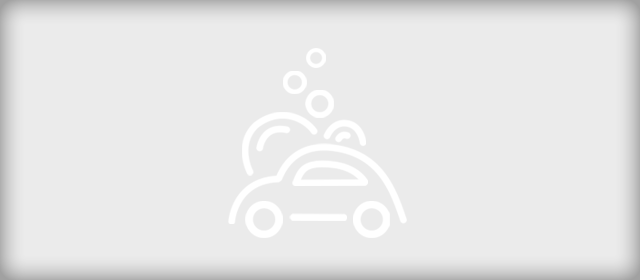
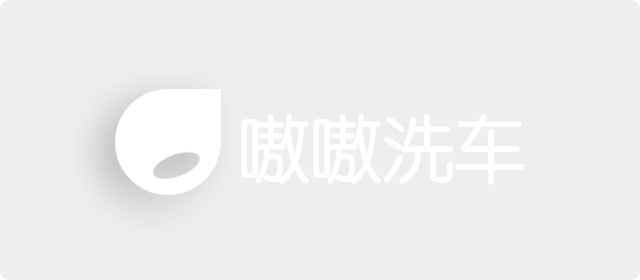
logo替换

Changed region(s): [[0.0, 0.0, 1.0, 1.0], [0.1562, 0.4286, 0.3125, 0.6857]]

diff --git a/www/templates/mobile/cash/cash_index.html b/www/templates/mobile/cash/cash_index.html
@@ -5,13 +5,13 @@
 {% block css %}
 <style type="text/css">
 .list-group-item:first-child{
-	border-top-left-radius: 4px;
-	border-top-right-radius: 4px;
+    border-top-left-radius: 4px;
+    border-top-right-radius: 4px;
 }
 
 .list-group-item:last-child{
-	border-bottom-right-radius: 4px;
-	border-bottom-left-radius: 4px;
+    border-bottom-right-radius: 4px;
+    border-bottom-left-radius: 4px;
 }
 </style>
 {% endblock %}
@@ -20,62 +20,64 @@
 
 {% block container %}
 <div class="row pt-0 pb-50">
-	<div class="col-xs-12 pt-15 pl-15 pr-15">
-		<div class="row pt-30 pl-0 pr-0 bgc-ffffff border-1 bdc-d0d0d0 bdr-4">
-			<div class="col-xs-offset-1 col-xs-10 co3 f14 pl-0 pr-0">账户余额(元)</div>
-			<div class="col-xs-offset-1 col-xs-10 f70 co8 pl-0 pr-0">{{user_cash.balance}}</div>
-		</div>
-	</div>
+    <div class="col-xs-12 pt-15 pl-15 pr-15">
+        <div class="row pt-30 pl-0 pr-0 bgc-ffffff border-1 bdc-d0d0d0 bdr-4">
+            <div class="col-xs-offset-1 col-xs-10 co3 f14 pl-0 pr-0">账户余额(元)</div>
+            <div class="col-xs-offset-1 col-xs-10 f70 co8 pl-0 pr-0">{{user_cash.balance}}</div>
+        </div>
+    </div>
 
-	<ul class="list-group col-xs-12 pr-15 pl-15 mt-10 mb-10">
-		<a class="list-group-item bdc-d0d0d0 pr" href="/cash/recharge">
-			<span class="fa fa-rmb pl-3 pr-3 f16 pa pt-3"></span>
-			<div class="pl-25">
-				<span>立即充值</span>
-				<span class="pull-right f20 fa fa-angle-right co3"></span>
-			</div>
-		</a>
-		<a class="list-group-item bdc-d0d0d0 pr" href="/cash/user_cash_record">
-			<span class="fa fa-list-alt pr-3 f16 pa pt-3"></span>
-			<div class="pl-25">
-				<span>消费记录</span>
-				<span class="pull-right f20 fa fa-angle-right co3"></span>
-			</div>
-		</a>
-	</ul>
-	<ul class="list-group col-xs-12 pr-15 pl-15 mt-0 mb-10">
-		<a class="list-group-item bdc-d0d0d0 pr" href="/car_wash/setting">
-			<span class="fa fa-gear pr-3 f16 pa pt-3"></span>
-			<div class="pl-25">
-				<span>账户设置</span>
-				<span class="pull-right f20 fa fa-angle-right co3"></span>
-			</div>
-		</a>
-	</ul>
-	<ul class="list-group col-xs-12 pr-15 pl-15 mt-0 mb-10">
-		<a class="list-group-item bdc-d0d0d0 pr" href="/car_wash/bind_mobile">
-			<span class="fa fa-mobile pl-3 pr-3 f20 pa pt-0"></span>
-			<div class="pl-25">
-				<span>绑定手机</span>
-				<span class="pull-right f20 fa fa-angle-right co3"></span>
-			</div>
-		</a>
-	</ul>
-	<ul class="list-group col-xs-12 pr-15 pl-15 mt-0 mb-10">
-		<a class="list-group-item bdc-d0d0d0 pr" href="/s/about">
-			<span class="fa fa-taxi pr-3 f16 pa pt-3"></span>
-			<div class="pl-25">
-				<span>关于我们</span>
-				<span class="pull-right f20 fa fa-angle-right co3"></span>
-			</div>
-		</a>
-		<a class="list-group-item bdc-d0d0d0 pr" href="/s/help">
-			<span class="fa fa-question-circle pr-3 f16 pa pt-3"></span>
-			<div class="pl-25">
-				<span>使用帮助</span>
-				<span class="pull-right f20 fa fa-angle-right co3"></span>
-			</div>
-		</a>
-	</ul>
+    <ul class="list-group col-xs-12 pr-15 pl-15 mt-10 mb-10">
+        <a class="list-group-item bdc-d0d0d0 pr" href="/cash/recharge">
+            <span class="fa fa-rmb pl-3 pr-3 f16 pa pt-3"></span>
+            <div class="pl-25">
+                <span>立即充值</span>
+                <span class="pull-right f20 fa fa-angle-right co3"></span>
+            </div>
+        </a>
+        <a class="list-group-item bdc-d0d0d0 pr" href="/cash/user_cash_record">
+            <span class="fa fa-list-alt pr-3 f16 pa pt-3"></span>
+            <div class="pl-25">
+                <span>消费记录</span>
+                <span class="pull-right f20 fa fa-angle-right co3"></span>
+            </div>
+        </a>
+    </ul>
+    <!-- 
+    <ul class="list-group col-xs-12 pr-15 pl-15 mt-0 mb-10">
+        <a class="list-group-item bdc-d0d0d0 pr" href="/car_wash/setting">
+            <span class="fa fa-gear pr-3 f16 pa pt-3"></span>
+            <div class="pl-25">
+                <span>账户设置</span>
+                <span class="pull-right f20 fa fa-angle-right co3"></span>
+            </div>
+        </a>
+    </ul>
+    <ul class="list-group col-xs-12 pr-15 pl-15 mt-0 mb-10">
+        <a class="list-group-item bdc-d0d0d0 pr" href="/car_wash/bind_mobile">
+            <span class="fa fa-mobile pl-3 pr-3 f20 pa pt-0"></span>
+            <div class="pl-25">
+                <span>绑定手机</span>
+                <span class="pull-right f20 fa fa-angle-right co3"></span>
+            </div>
+        </a>
+    </ul>
+    -->
+    <ul class="list-group col-xs-12 pr-15 pl-15 mt-0 mb-10">
+        <a class="list-group-item bdc-d0d0d0 pr" href="/s/about">
+            <span class="fa fa-taxi pr-3 f16 pa pt-3"></span>
+            <div class="pl-25">
+                <span>关于我们</span>
+                <span class="pull-right f20 fa fa-angle-right co3"></span>
+            </div>
+        </a>
+        <a class="list-group-item bdc-d0d0d0 pr" href="/s/help">
+            <span class="fa fa-question-circle pr-3 f16 pa pt-3"></span>
+            <div class="pl-25">
+                <span>使用帮助</span>
+                <span class="pull-right f20 fa fa-angle-right co3"></span>
+            </div>
+        </a>
+    </ul>
 </div>
 {% endblock %}

diff --git a/www/templates/static_templates/about.html b/www/templates/static_templates/about.html
@@ -21,7 +21,7 @@
 {% block container %}
 <div class="pb-50 pt-50 row pl-15 pr-15">
 	<div class="col-xs-offset-4 col-xs-4 pt-20">
-		<img class="w" src="{{MEDIA_URL}}img/logo.jpg">
+		<img class="w" src="{{MEDIA_URL}}img/logo.png">
 	</div>
 	<div class="col-xs-offset-4 col-xs-4 pt-5 text-center f16">
 		<span>嗷嗷洗车</span>

diff --git a/www/car_wash/interface.py b/www/car_wash/interface.py
@@ -440,9 +440,9 @@ class OrderBase(object):
         assert 1 <= count <= 5
         assert pay_type in (0, 1, 2)
 
-    def valide_coupon(self, coupon, pay_fee):
+    def check_coupon_can_use(self, coupon, user_id, pay_fee):
         """
-        @note: 检测优惠码是否可用
+        @note: 检测优惠券是否可用
         """
         pass
 
